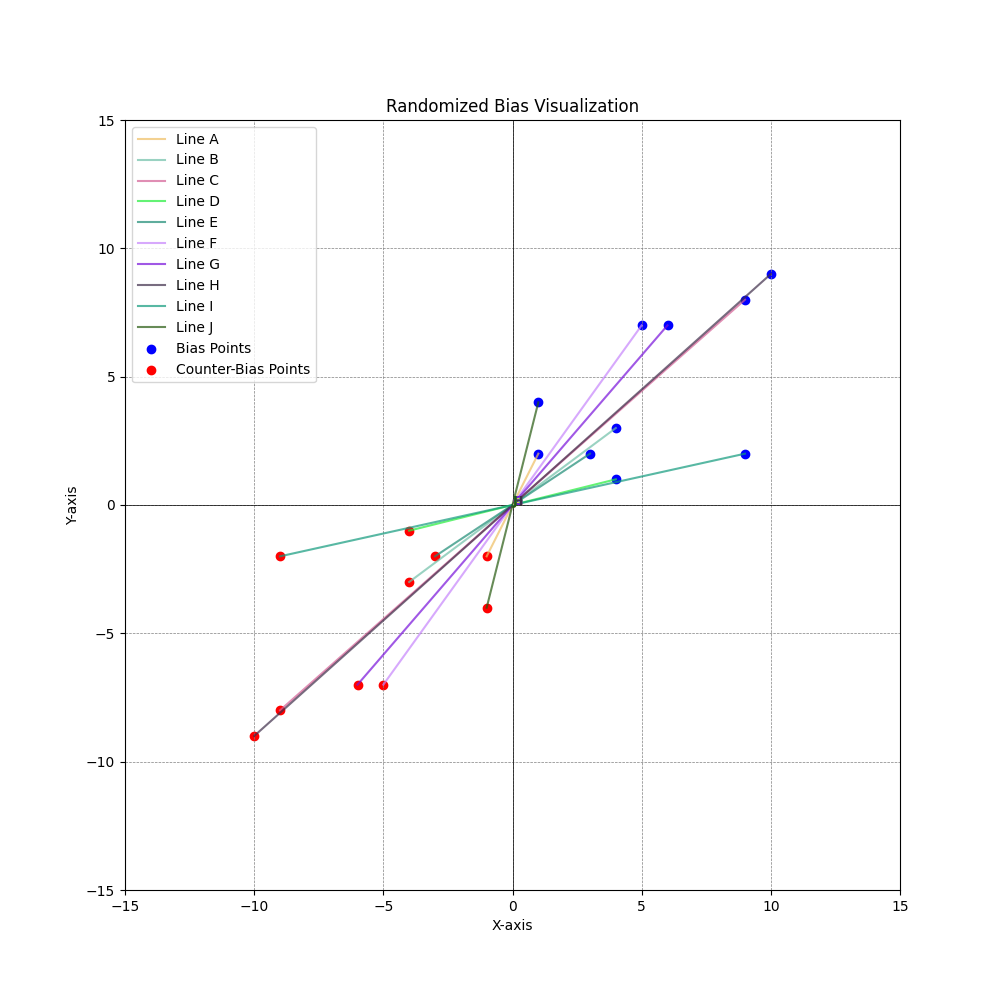
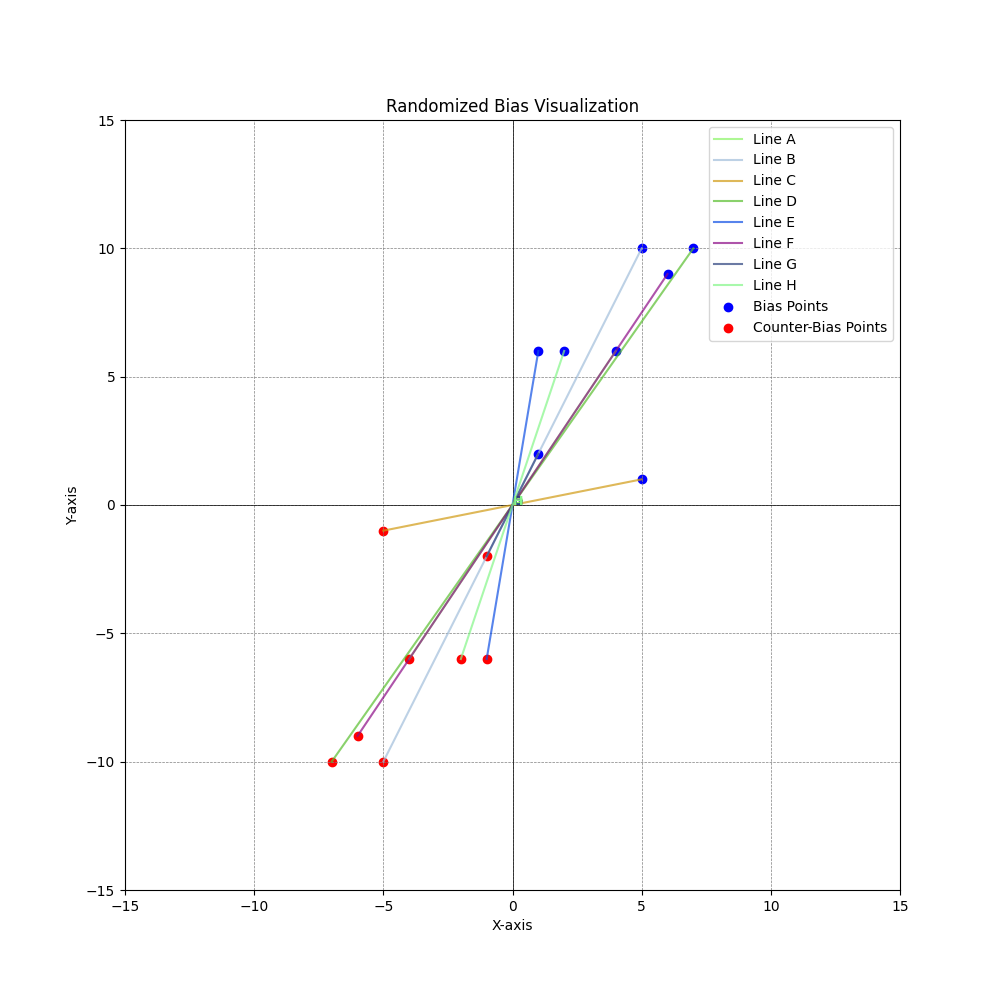
bias_pics

diff --git a/python/script.py b/python/script.py
@@ -7,8 +7,8 @@ def generate_random_points(num_points=4, limit=10):
     points = [(random.randint(1, limit), random.randint(1, limit)) for _ in range(num_points)]
     return points
 
-# Number of bias-counterbias pairs (random between 4 and 26)
-num_pairs = random.randint(4, 26)
+# Number of bias-counterbias pairs (random between 4 and 20)
+num_pairs = random.randint(4, 20)
 
 #Generate random bias points
 bias_points = generate_random_points(num_pairs)
